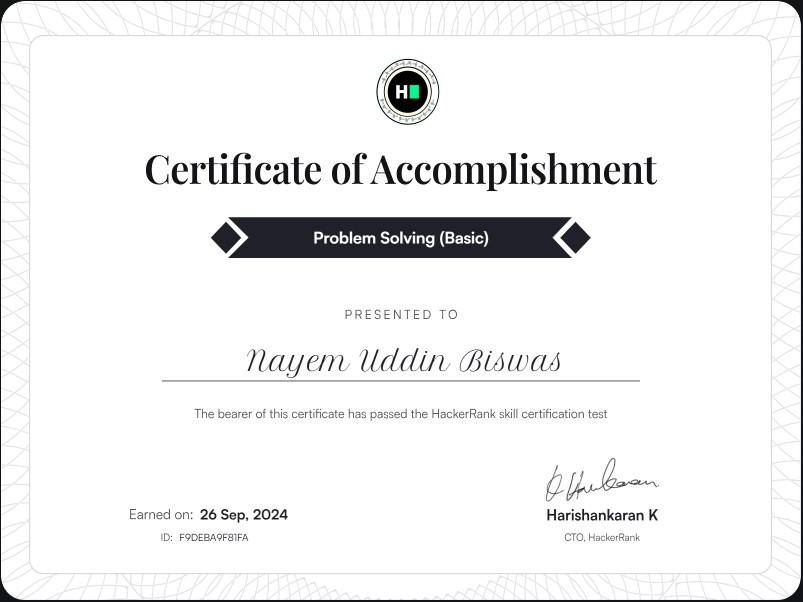
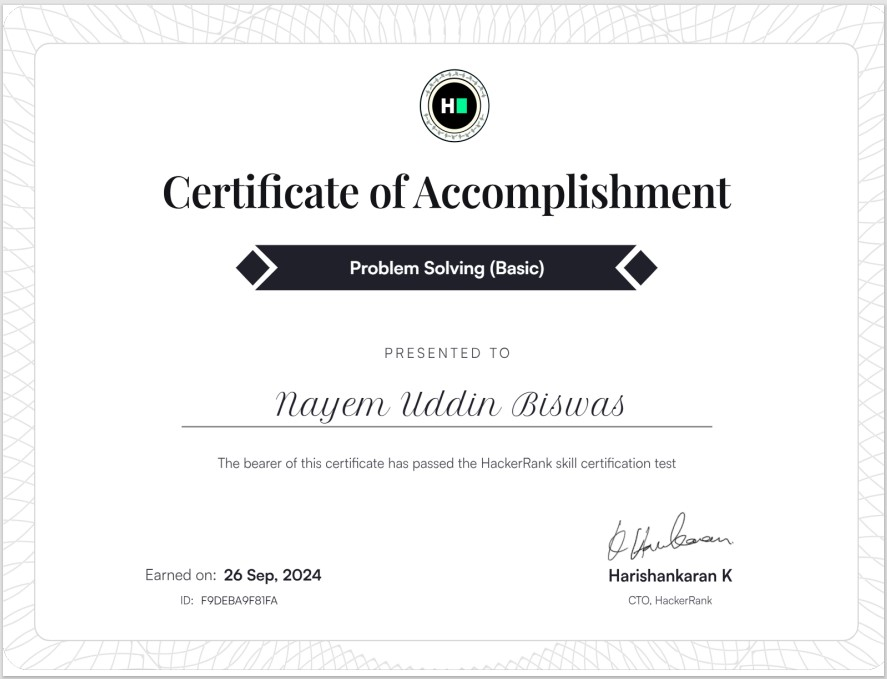
add certificates section

diff --git a/index.html b/index.html
@@ -24,6 +24,7 @@
         <a href="#edu-head">Education</a>
         <a href="#skillset">Skills</a>
         <a href="#profiles">Profiles</a>
+        <a href="#certs">Certificates</a>
         <a href="#contact">Contact</a>
         <a href="https://drive.google.com/file/d/1881rAgKThvLA0jXQmC94q9GNW9Cdc1aO/view?usp=drive_link" target="_blank" download="cv-nayem-uddin-biswas" rel="external">Download CV</a>
       </nav>
@@ -184,7 +185,34 @@
           </div>
         </div>
       </nav>
-      
+      <h2 id="certs">Certificates</h2>
+      <hr>
+      <div class="certificates">
+        <div class="cert" id="cert1" onclick="window.open('https://www.hackerrank.com/certificates/f9deba9f81fa')">
+          <div class="text">
+            <h3>Problem Solving (Basic)</h3>
+            <p>A skill certificate from HackerRank</p>
+          </div>
+        </div>
+        <div class="cert" id="cert2" onclick="window.open('https://www.hackerrank.com/certificates/33fd099e8979')">
+          <div class="text">
+            <h3>SQL (Basic)</h3>
+            <p>A skill certificate from HackerRank</p>
+          </div>
+        </div>
+        <div class="cert" id="cert3" onclick="window.open('https://www.hackerrank.com/certificates/c20599bf3e4d')">
+          <div class="text">
+            <h3>SQL (Intermediate)</h3>
+            <p>A skill certificate from HackerRank</p>
+          </div>
+        </div>
+        <div class="cert" id="cert4" onclick="window.open('https://www.hackerrank.com/certificates/2499e5d9aa3a')">
+          <div class="text">
+            <h3>Software Engineering Intern</h3>
+            <p>A skill certificate from HackerRank</p>
+          </div>
+        </div>
+      </div>
     </main>
     <footer id="contact">
       <h4>Contact</h4>
@@ -211,9 +239,6 @@
           <a href="http://www.linkedin.com/in/md-nayem-uddin-biswas/" target="_blank">Md. Nayem Uddin Biswas</a>
         </address>
         </p>
-    
-
-      
       </main>
     </footer>
   </body>

diff --git a/style.css b/style.css
@@ -183,7 +183,48 @@ main nav {
   font-family: "Courier New", Courier, monospace;
   font-weight: 900;
 }
-
+.certificates {
+  margin-left: 10px;
+  display: flex;
+}
+.cert {
+  margin: 10px 10px 0 0;
+  background-size: 100% 100%;
+  position: relative;
+  width: 400px;
+  height: 300px;
+  cursor: pointer;
+}
+#cert1 {
+  background-image: url(ps-basic.jpg);
+}
+#cert2 {
+  background-image: url(sql-basic.jpg);
+}
+#cert3 {
+  background-image: url(sql-inter.jpg);
+}
+#cert4 {
+  background-image: url(se-intern.jpg);
+}
+.cert .text {
+  background-color: rgb(4, 4, 5);
+  text-align: center;
+  line-height: 2;
+  font-size: 1.2rem;
+  color: antiquewhite;
+  opacity: 0.8;
+  position: absolute;
+  top: 200px; /*fixes the bottom to the bottom of the image*/
+  height: 100px;
+  width: 100%;
+  transform-origin: 0 100%; /*transition starts from bottom*/
+  transition: transform 1s;
+  transform: scaleY(0); /*initially makes the height 0*/
+}
+.cert:hover .text {
+  transform: scaleY(1); /*achieves the original height*/
+}
 footer {
   box-sizing: border-box;
   padding: 20px 0 10px 50px;

diff --git a/mobile-screen.css b/mobile-screen.css
@@ -19,6 +19,10 @@
   h1 {
     margin: 0 5px;
   }
+  .certificates {
+    display: grid;
+    grid-template-columns: repeat(2, 1fr);
+  }
 }
 @media screen and (max-width: 700px) {
   body > nav {
@@ -45,5 +49,8 @@
   #header-txt h1 {
     margin-top: 5px;
     font-size: 75px;
+  }
+  .certificates {
+    display: block;
   }
 }
